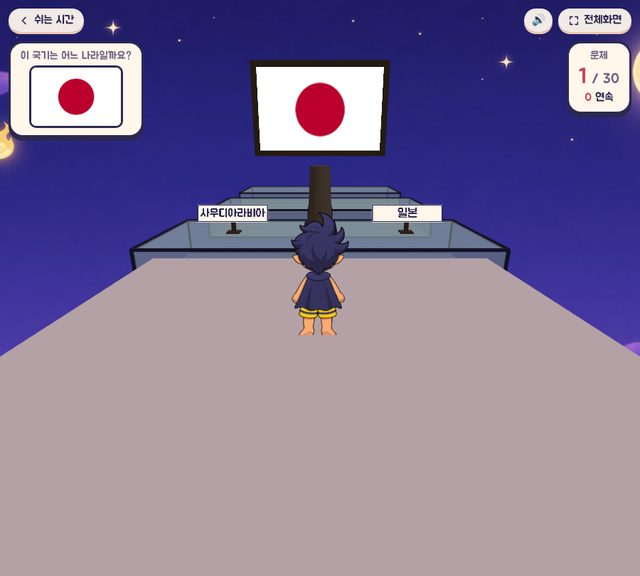
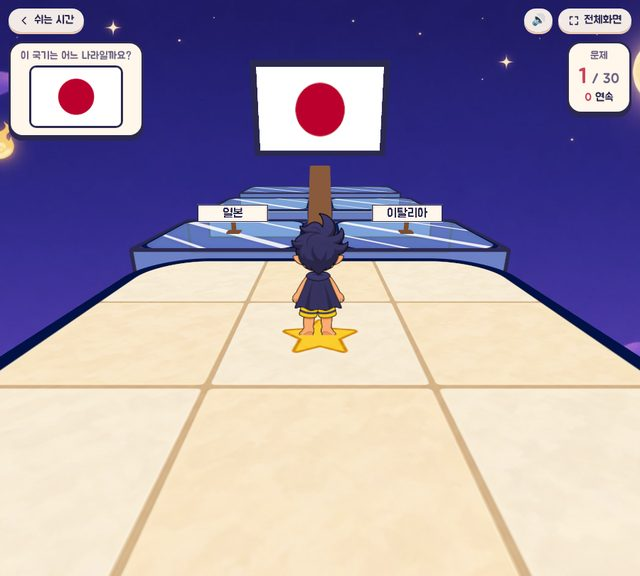
국기 맞히기: 걷는 모습, 그림 발판, 카메라 고정
- 꼬비 걷기 그림 2장을 번갈아 보여 주고 살짝 통통 튀게
- 유리 발판과 출발 바닥 윗면에 위에서 본 그림을 입히고, 그림자 없는 납작한 색으로
- 마우스·손가락으로 둘러보기와 마우스 잠금을 없애고 카메라를 꼬비 뒤에 고정
- 조작법에서 둘러보기 설명 삭제

Claude-Session: https://claude.ai/code/session_01TJDp5XfiAh3Qwncvaa55oH

diff --git a/flags/index.html b/flags/index.html
@@ -281,11 +281,9 @@
           <div class="hint-title">조작법</div>
           <div class="hint-keys">
             <div class="hint-row">이동 <kbd>W</kbd><kbd>A</kbd><kbd>S</kbd><kbd>D</kbd> 또는 <kbd>←</kbd><kbd>↑</kbd><kbd>↓</kbd><kbd>→</kbd> · 점프 <kbd>Space</kbd></div>
-            <div class="hint-row">마우스를 움직이면 둘러볼 수 있어요 · 마우스를 다시 쓰려면 <kbd>Esc</kbd></div>
           </div>
           <div class="hint-touch">
             <div class="hint-row">왼쪽 화살표 버튼으로 이동, 오른쪽 <b>점프</b> 버튼으로 점프!</div>
-            <div class="hint-row">화면을 손가락으로 밀면 둘러볼 수 있어요</div>
           </div>
         </div>
         <div class="button-group" style="margin-top:16px">
@@ -761,7 +759,7 @@ document.addEventListener('pointerlockerror', () => {
 
 renderer.domElement.addEventListener('mousedown', e => {
   if (gameState !== 'playing' && gameState !== 'failing') return;
-  dragging = true;
+  return;   // 카메라는 꼬비 뒤에 고정 (마우스로 둘러보기 없음)
   lastMX = e.clientX;
   lastMY = e.clientY;
 });
@@ -845,7 +843,7 @@ function setPose(name) {
 }
 {
   const ldr = new THREE.TextureLoader();
-  ['back', 'back-jump', 'fall'].forEach(n => {
+  ['back', 'walk-1', 'walk-2', 'back-jump', 'fall'].forEach(n => {
     ggobiTex[n] = ldr.load(`img/ggobi-${n}.png`, t => {
       t.colorSpace = THREE.SRGBColorSpace;
       if (n === 'back' && !ggobiPose) setPose('back');
@@ -1032,10 +1030,26 @@ const PLATFORM_HEIGHT = 1.2;   // taller bridges so the front face fits the labe
 
 let startPlatform = null;
 
+// 위에서 본 발판 그림 (그림책 느낌)
+const tileTex = {};
+{
+  const ldr = new THREE.TextureLoader();
+  ['glass', 'start'].forEach(n => {
+    tileTex[n] = ldr.load(`img/tile-${n}.png`);
+    tileTex[n].colorSpace = THREE.SRGBColorSpace;
+    tileTex[n].anisotropy = 4;
+  });
+}
+function tintPlatform(platform, hex) {
+  if (platform.topMat) platform.topMat.color.setHex(hex);
+}
+
 function createStartPlatform() {
   const geo = new THREE.BoxGeometry(8, 1, 8);
-  const mat = new THREE.MeshLambertMaterial({ color: 0xe6dafc });
-  const mesh = new THREE.Mesh(geo, mat);
+  const sideMat = new THREE.MeshBasicMaterial({ color: 0xd9bf94 });
+  const topMat = new THREE.MeshBasicMaterial({ map: tileTex.start, transparent: true, alphaTest: 0.1 });
+  // 상자 면 순서: 오른쪽, 왼쪽, 위, 아래, 앞, 뒤
+  const mesh = new THREE.Mesh(geo, [sideMat, sideMat, topMat, sideMat, sideMat, sideMat]);
   mesh.position.set(0, 0, 0);
   mesh.receiveShadow = true;
   mesh.castShadow = true;
@@ -1059,23 +1073,21 @@ function createStonePlatform(x, z, country) {
 
   // Glass slab — semi-transparent panel with a light blue tint
   const geometry = new THREE.BoxGeometry(halfSize*2, height, halfSize*2);
-  const material = new THREE.MeshPhongMaterial({
-    color: 0xbfe4ff,
+  const sideMat = new THREE.MeshBasicMaterial({
+    color: 0x9fd0f5,
     transparent: true,
     opacity: 0.5,
-    shininess: 90,
-    specular: 0xffffff,
-    side: THREE.DoubleSide,
     depthWrite: false
   });
-  const mesh = new THREE.Mesh(geometry, material);
+  const topMat = new THREE.MeshBasicMaterial({ map: tileTex.glass, transparent: true, opacity: 0.92, depthWrite: false });
+  const mesh = new THREE.Mesh(geometry, [sideMat, sideMat, topMat, sideMat, sideMat, sideMat]);
   mesh.position.set(0, -height/2, 0);
   mesh.castShadow = false;        // glass shouldn't cast harsh shadows
   mesh.receiveShadow = false;
   group.add(mesh);
 
   // Dark metal frame outlining the glass slab (so the player can see its edges clearly)
-  const frameMat = new THREE.MeshLambertMaterial({ color: 0x2c2950 });
+  const frameMat = new THREE.MeshBasicMaterial({ color: 0x2c2950 });
   const FT = 0.08;   // frame thickness
   // Four horizontal edges of the top face
   const topEdgeFront = new THREE.Mesh(new THREE.BoxGeometry(halfSize*2, FT, FT), frameMat);
@@ -1116,7 +1128,7 @@ function createStonePlatform(x, z, country) {
   labelGroupFront.add(sign);
 
   // Small wooden / stone post supporting the sign
-  const postMat = new THREE.MeshLambertMaterial({ color: 0x4a3d2f });
+  const postMat = new THREE.MeshBasicMaterial({ color: 0x7a4e2f });
   const post = new THREE.Mesh(new THREE.BoxGeometry(0.12, 0.4, 0.12), postMat);
   post.position.set(0, 0.2, 0);
   post.castShadow = true;
@@ -1144,7 +1156,8 @@ function createStonePlatform(x, z, country) {
     halfSize, height,
     country,
     broken: false,
-    pieces: null
+    pieces: null,
+    topMat
   };
 }
 
@@ -1152,7 +1165,7 @@ function createMonument(z, country) {
   const group = new THREE.Group();
 
   // Stone pillar (shorter)
-  const pillarMat = new THREE.MeshLambertMaterial({ color: 0x6a5d4f });
+  const pillarMat = new THREE.MeshBasicMaterial({ color: 0x8a5a3c });
   const pillar = new THREE.Mesh(
     new THREE.CylinderGeometry(0.3, 0.4, 2.5, 8),
     pillarMat
@@ -1171,7 +1184,7 @@ function createMonument(z, country) {
   group.add(base);
 
   // Flag display frame (stone border) - smaller and lower
-  const frameMat = new THREE.MeshLambertMaterial({ color: 0x4a3d2f });
+  const frameMat = new THREE.MeshBasicMaterial({ color: 0x2c2950 });
   const frameW = 3.5, frameH = 2.3, frameT = 0.15;
   const flagCenterY = 4.0;
 
@@ -1371,11 +1384,11 @@ function onCorrect(round, platform) {
   sfxCorrect();
 
   // Green flash effect
-  platform.mesh.material.color.setHex(0x7ccf74);
+  tintPlatform(platform, 0x8fe08a);
   setTimeout(() => {
     if (!platform.broken) {
       const stoneColors = [0x8a8780, 0x9a9590, 0x7a7670, 0x8e8a82];
-      platform.mesh.material.color.setHex(0xbfe4ff);
+      tintPlatform(platform, 0xffffff);
     }
   }, 500);
 
@@ -1638,7 +1651,15 @@ function updatePlayer(dt) {
   }
 
   playerGroup.position.copy(player.position);
-  setPose(gameState === 'failing' ? 'fall' : (player.onGround ? 'back' : 'back-jump'));
+  // 꼬비 모습: 떨어짐 / 점프 / 걷기(두 그림 번갈아) / 서 있기
+  const moving = Math.hypot(player.velocity.x, player.velocity.z) > 0.5;
+  let pose = 'back';
+  if (gameState === 'failing') pose = 'fall';
+  else if (!player.onGround) pose = 'back-jump';
+  else if (moving) pose = (Math.floor(performance.now() / 170) % 2) ? 'walk-1' : 'walk-2';
+  setPose(pose);
+  // 걸을 때 살짝 통통 튀기
+  ggobiSprite.position.y = (moving && player.onGround && gameState === 'playing') ? Math.abs(Math.sin(performance.now() / 170 * Math.PI)) * 0.05 : 0;
   ggobiMat.rotation = (gameState === 'failing') ? Math.sin(performance.now() / 70) * 0.25 : 0;
 
   // Figure-skater style spin around vertical (Y) axis while airborne
@@ -1781,7 +1802,7 @@ function startGame() {
 
   hideOverlay();
 
-  if (document.body.requestPointerLock && !matchMedia('(pointer: coarse)').matches) {
+  if (false) {   // 마우스 잠금 사용 안 함
     try { document.body.requestPointerLock(); } catch(e) {}
   }
 }
@@ -2409,7 +2430,7 @@ document.getElementById('input-name').addEventListener('keydown', (e) => {
 //  INITIAL STATE
 // ============================================================
 // ============================================================
-//  휴대폰·태블릿 터치 버튼 + 손가락으로 둘러보기
+//  휴대폰·태블릿 터치 버튼
 // ============================================================
 document.querySelectorAll('.tbtn').forEach(btn => {
   const k = btn.dataset.key;
@@ -2427,24 +2448,7 @@ document.querySelectorAll('.tbtn').forEach(btn => {
   btn.addEventListener('lostpointercapture', up);
   btn.addEventListener('contextmenu', e => e.preventDefault());
 });
-let lookId = null, lookX = 0, lookY = 0;
-renderer.domElement.addEventListener('pointerdown', e => {
-  if (e.pointerType === 'mouse') return;
-  if (gameState !== 'playing' && gameState !== 'failing') return;
-  lookId = e.pointerId; lookX = e.clientX; lookY = e.clientY;
-});
-addEventListener('pointermove', e => {
-  if (e.pointerId !== lookId) return;
-  yaw -= (e.clientX - lookX) * 0.006;
-  pitch += (e.clientY - lookY) * 0.006;
-  if (pitch > 1.3) pitch = 1.3;
-  if (pitch < -0.2) pitch = -0.2;
-  lookX = e.clientX; lookY = e.clientY;
-  applyCameraRot();
-});
-const endLook = e => { if (e.pointerId === lookId) lookId = null; };
-addEventListener('pointerup', endLook);
-addEventListener('pointercancel', endLook);
+
 
 showSection('start-section');
 
